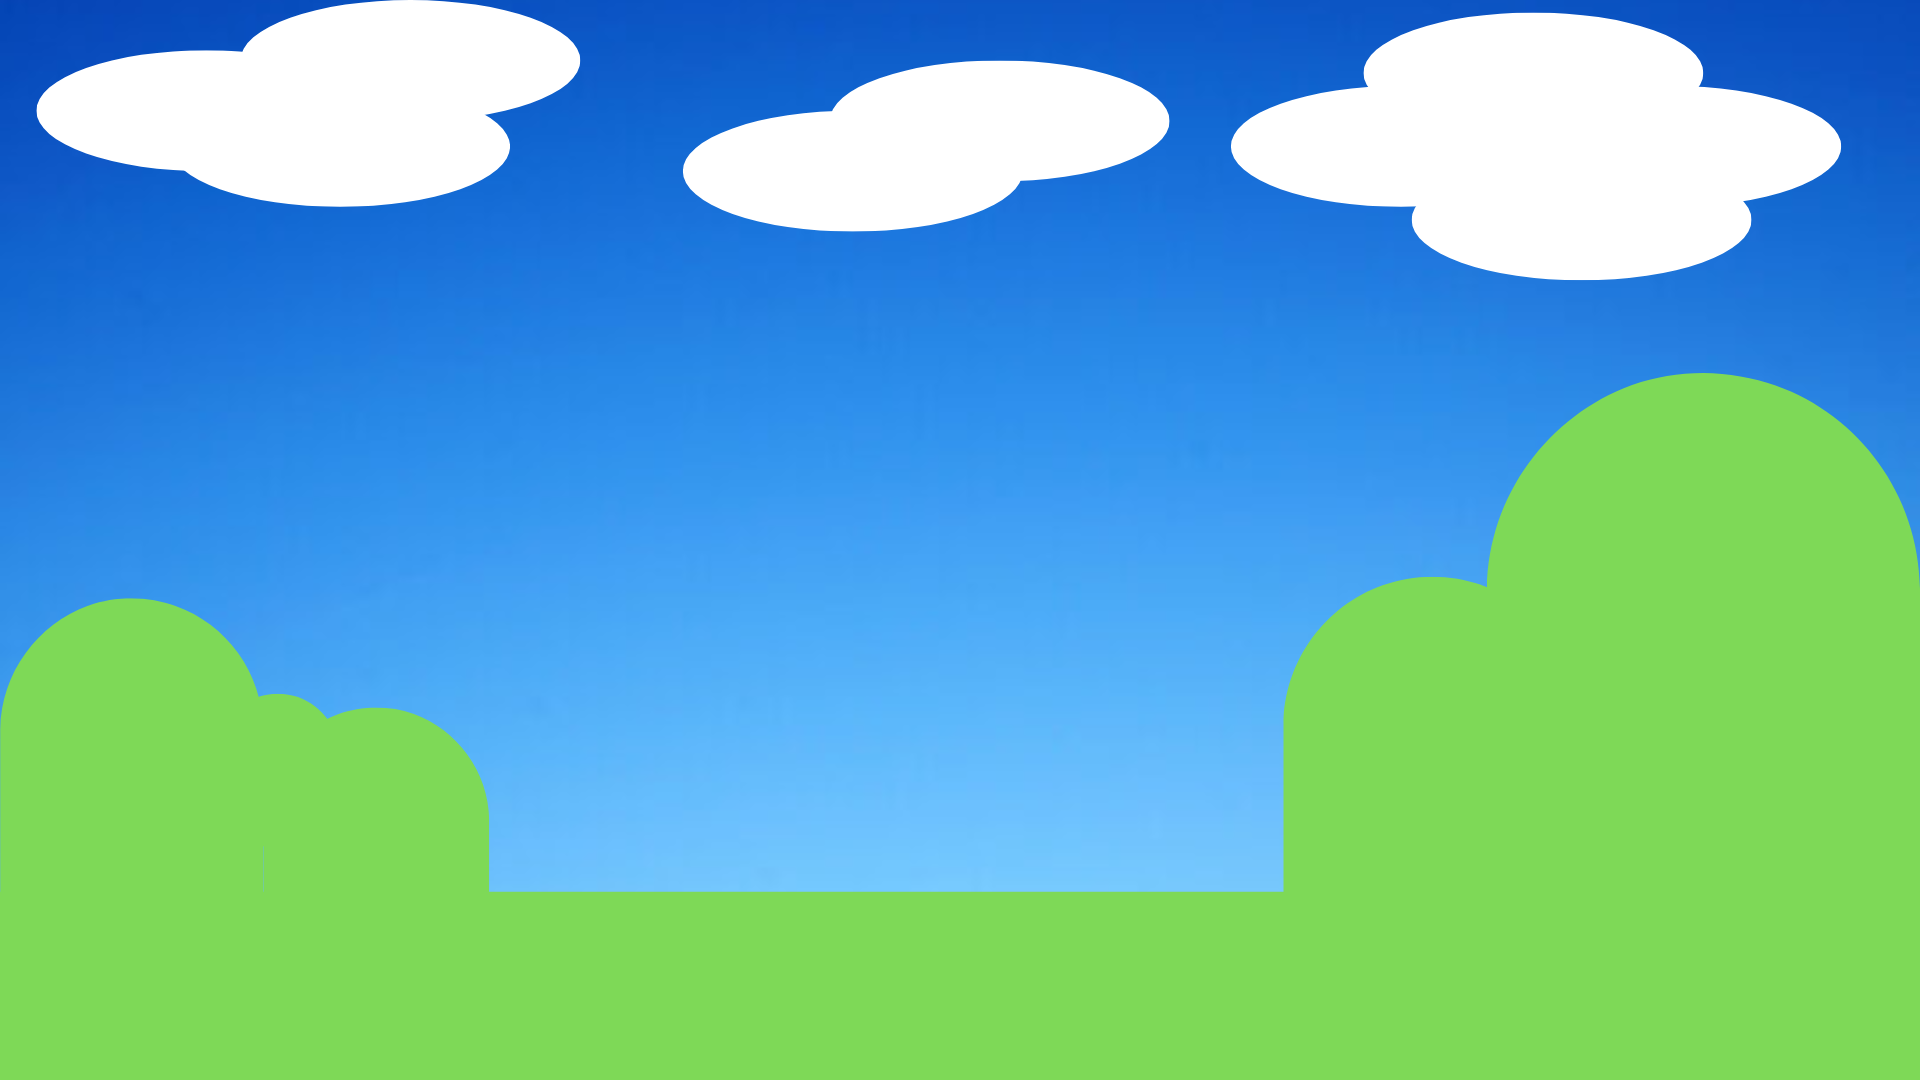
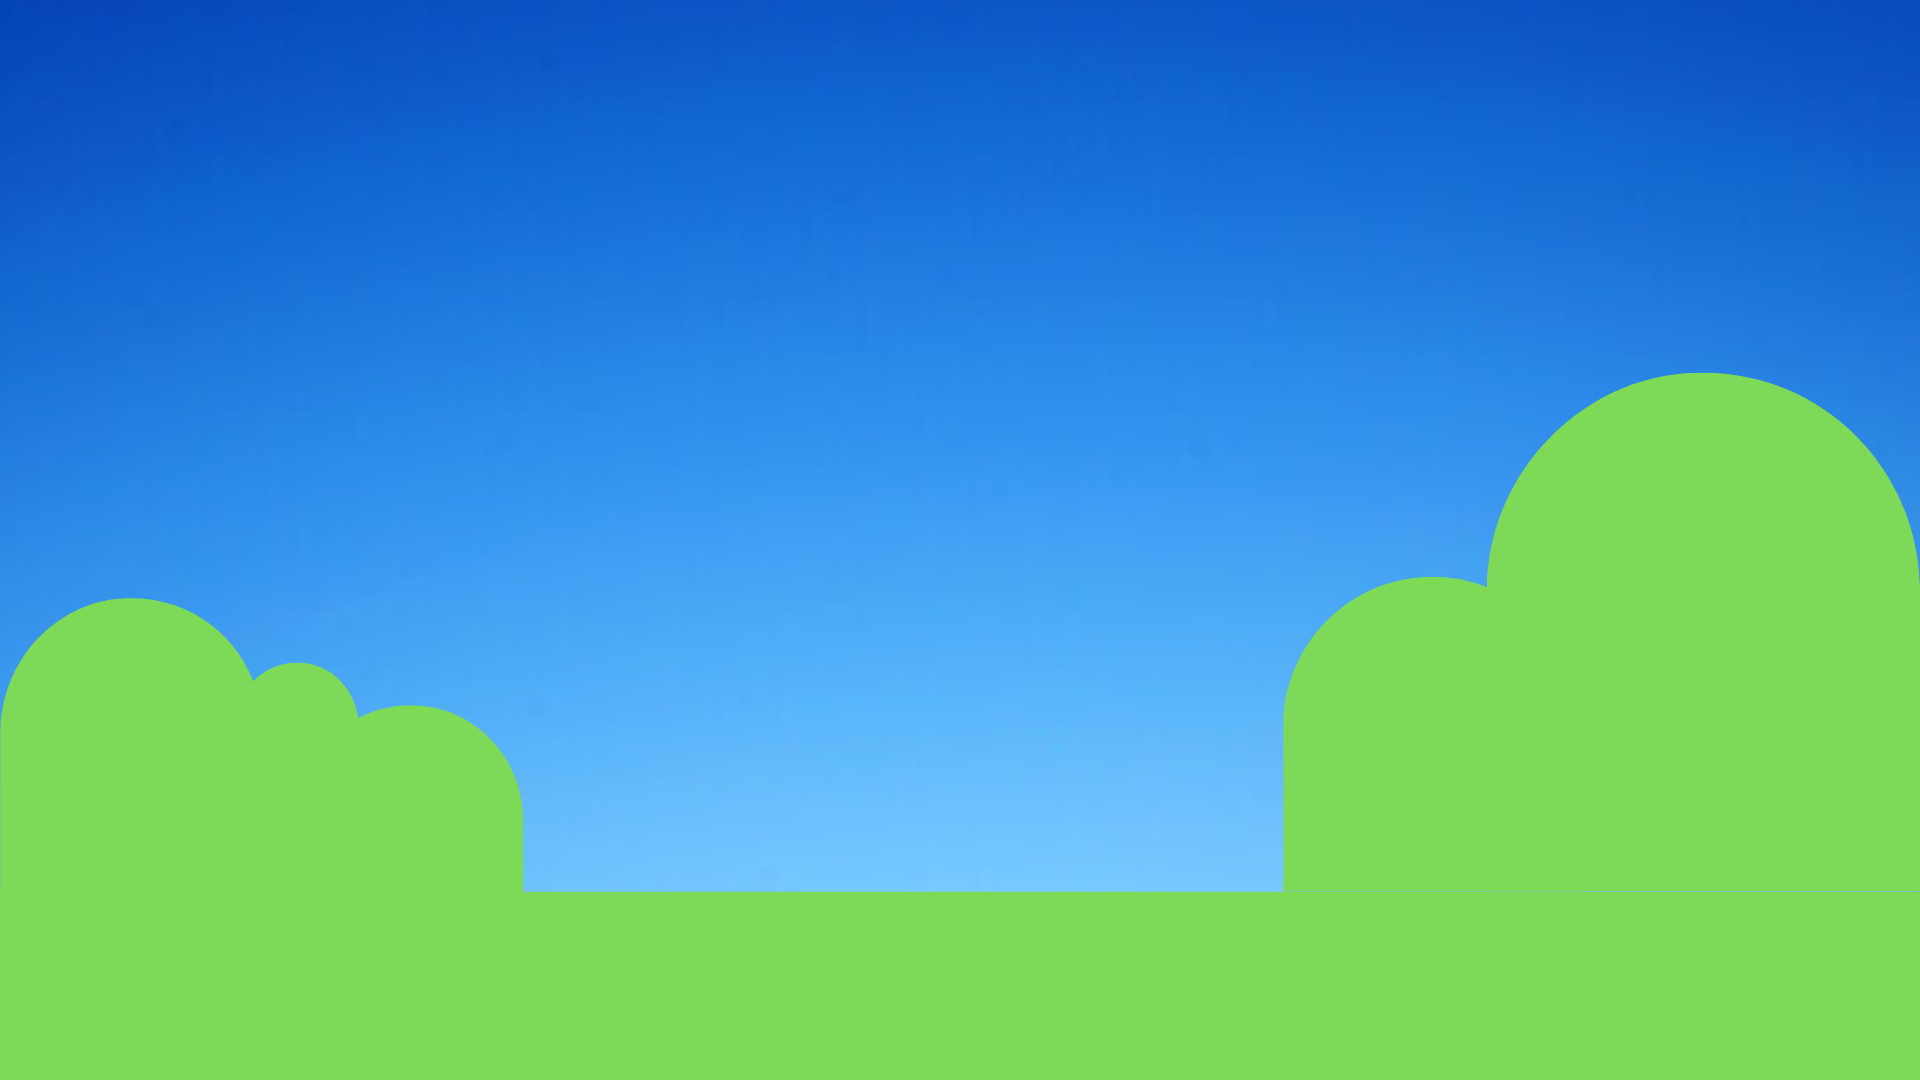
Im Menu wurde eine Hintergrundanimation hinzugefügt. Der Los-Button bekommt auch eine, die ist aber noch in bearbeitung

Changed region(s): [[0.3438, 0.0, 0.9688, 0.275], [0.0, 0.0, 0.3125, 0.2139], [0.125, 0.6111, 0.2812, 0.825]]

diff --git a/src/main/java/sandwich/de/monopoly/GUI/StartMenu.java b/src/main/java/sandwich/de/monopoly/GUI/StartMenu.java
@@ -1,5 +1,10 @@
 package sandwich.de.monopoly.GUI;
 
+import javafx.animation.Animation;
+import javafx.animation.Interpolator;
+import javafx.animation.ParallelTransition;
+import javafx.animation.TranslateTransition;
+import javafx.application.Application;
 import javafx.geometry.Insets;
 import javafx.geometry.Point2D;
 import javafx.geometry.Pos;
@@ -10,10 +15,12 @@ import javafx.scene.image.ImageView;
 import javafx.scene.layout.*;
 import javafx.scene.paint.Color;
 import javafx.scene.shape.Circle;
+import javafx.scene.shape.Line;
 import javafx.scene.shape.Polygon;
 import javafx.scene.shape.Rectangle;
 import javafx.scene.text.Font;
 import javafx.scene.text.TextAlignment;
+import javafx.util.Duration;
 import sandwich.de.monopoly.Main;
 import sandwich.de.monopoly.Utilities;
 
@@ -32,11 +39,40 @@ public class StartMenu {
         ImageView background = Utilities.createImageView("menu_Background", "/sandwich/de/monopoly/menu/background.png", width, height, 0, 0);
         ImageView header = Utilities.createImageView("menu_Header", "/sandwich/de/monopoly/menu/header.png", width / 2.196, (width / 2.196) * 0.18, width / 2 - (width / 2.196) / 2, 0);
 
+        ImageView clouds1 = Utilities.createImageView("menu_CloudAnimation", "/sandwich/de/monopoly/menu/clouds.png", 0, 0);
+        ImageView clouds2 = Utilities.createImageView("menu_CloudAnimation", "/sandwich/de/monopoly/menu/clouds.png", 0, 0);
+
+        assert clouds1 != null;
+        clouds1.setFitWidth(width * 4.167);
+        clouds1.setFitHeight(height * 0.259);
+
+        assert clouds2 != null;
+        clouds2.setFitWidth(width * 4.167);
+        clouds2.setFitHeight(height * 0.259);
+
+        clouds1.setX( -1 * (width * 4.167));
+        clouds2.setX(0);
+
+        TranslateTransition translateTransition = new TranslateTransition(Duration.seconds(100), clouds1);
+        translateTransition.setToX((width * 4.167));
+        translateTransition.setInterpolator(Interpolator.LINEAR);
+
+        TranslateTransition translateTransition2 = new TranslateTransition(Duration.seconds(100), clouds2);
+        translateTransition2.setToX((width * 4.167));
+        translateTransition2.setInterpolator(Interpolator.LINEAR);
+
+        ParallelTransition parallelTransition = new ParallelTransition(translateTransition, translateTransition2);
+        parallelTransition.setCycleCount(Animation.INDEFINITE);
+        parallelTransition.play();
+
         //Der Los-Button wird erstellt, und die funktion werden bestimmt
         Image startButtonNormal = new Image(Objects.requireNonNull(Main.class.getResourceAsStream("/sandwich/de/monopoly/menu/start_button.png")));
-        Image startButtonHover = new Image(Objects.requireNonNull(Main.class.getResourceAsStream("/sandwich/de/monopoly/menu/start_button_hover.png")));
+        Image startButtonHover = new Image(Objects.requireNonNull(Main.class.getResourceAsStream("/sandwich/de/monopoly/menu/startButtonGif.gif")));
         ImageView startButton = Utilities.createImageView("menu_StartButton", startButtonNormal, width / 3.516, (width / 3.516) * 0.230, width / 2 - (width / 3.516) / 2, height * 0.84);
-        startButton.setOnMouseEntered(event -> startButton.setImage(startButtonHover));
+        startButton.setOnMouseEntered(event -> {
+            startButton.setImage(startButtonHover);
+
+        });
         startButton.setOnMouseExited(event -> startButton.setImage(startButtonNormal));
         startButton.setOnMouseClicked(event -> Main.changeScene(Main.scenes.GAME));
 
@@ -68,7 +104,7 @@ public class StartMenu {
         rightPlayerTwo.setLayoutY(middlePlayerY);
 
         //Alle objekte werden der Root hinzugefügt
-        root.getChildren().addAll(background, header, startButton, middlePlayer, leftPlayerOne, leftPlayerTwo, rightPlayerOne, rightPlayerTwo);
+        root.getChildren().addAll(background, clouds1, clouds2, header, startButton, middlePlayer, leftPlayerOne, leftPlayerTwo, rightPlayerOne, rightPlayerTwo);
 
         return root;
     }
@@ -81,7 +117,6 @@ public class StartMenu {
         //Background
         Rectangle background = Utilities.buildRectangle("menu_playerSelector_Background", width, height, color, true, null, 0);
         Polygon backgroundBottom = Utilities.buildTriangle("menu_playerSelector_background_Bottom", new Point2D(x, y + height), new Point2D(x + width / 2, y + height + height * 0.071), new Point2D(x + width, y + height),color, null, -x, -y - 0.5);
-
         //Name label
         Label name = Utilities.buildLabel("menu_playerSelector_Name", "", new Font(Main.textFont, 100), TextAlignment.LEFT, Color.WHITE, 0, 0);
         Utilities.centeringChildInPane(name, root);

diff --git a/src/main/java/sandwich/de/monopoly/Utilities.java b/src/main/java/sandwich/de/monopoly/Utilities.java
@@ -1,25 +1,25 @@
 package sandwich.de.monopoly;
 
-import javafx.animation.ScaleTransition;
-import javafx.animation.TranslateTransition;
+import javafx.animation.*;
 import javafx.geometry.Point2D;
 import javafx.scene.Node;
+import javafx.scene.Scene;
 import javafx.scene.control.*;
 import javafx.scene.image.Image;
 import javafx.scene.image.ImageView;
 import javafx.scene.layout.Pane;
 import javafx.scene.paint.Color;
 import javafx.scene.paint.Paint;
-import javafx.scene.shape.Circle;
-import javafx.scene.shape.Polygon;
-import javafx.scene.shape.Rectangle;
+import javafx.scene.shape.*;
 import javafx.scene.text.Font;
 import javafx.scene.text.TextAlignment;
+import javafx.scene.transform.Scale;
 import javafx.util.Duration;
 
 import java.io.*;
 import java.util.List;
 import java.util.Objects;
+import java.util.Scanner;
 
 //Don't forget: Update changes in Cloud
 public class Utilities {
@@ -303,6 +303,16 @@ public class Utilities {
      *  <p>ParallelTransition: Ermöglicht das Ausführen mehrerer Transitionen gleichzeitig.</p>
      *  <p>SequentialTransition: Ermöglicht das Ausführen von Transitionen nacheinander.</p>
      */
+
+    public static void moveObject(Node object, double durationSeconds, double toX, double toY, int cycles) {
+        ScaleTransition transition = new ScaleTransition(Duration.seconds(durationSeconds), object);
+        transition.setToX(toX); // Ziel-X-Position
+        transition.setToY(toY); // Ziel-Y-Position
+        transition.setCycleCount(cycles); // Animation X oft ausführen
+
+        transition.play();
+    }
+
 
 
     /**
